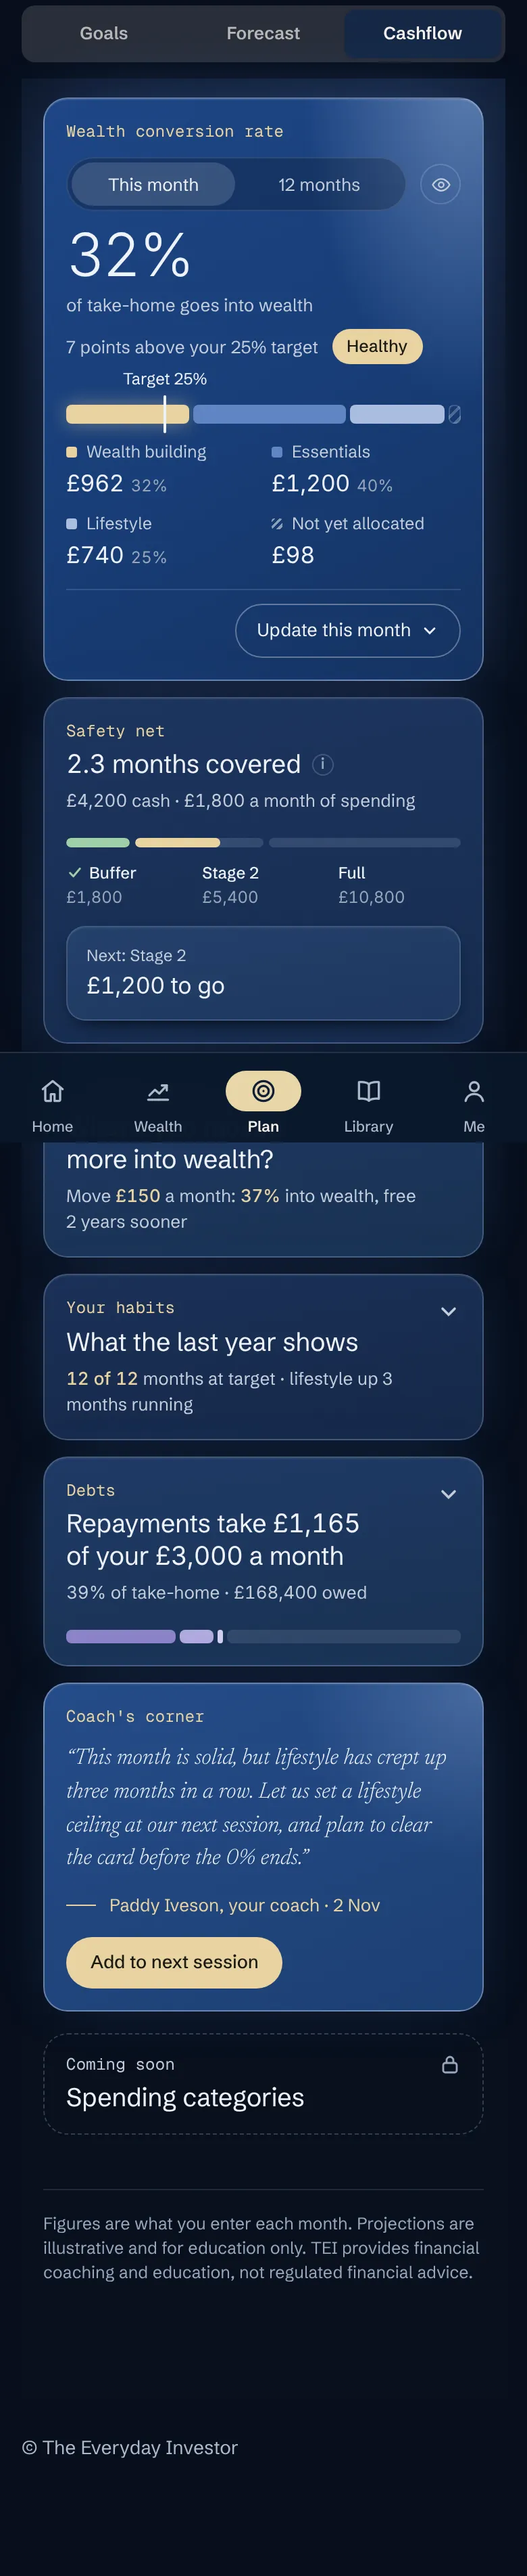
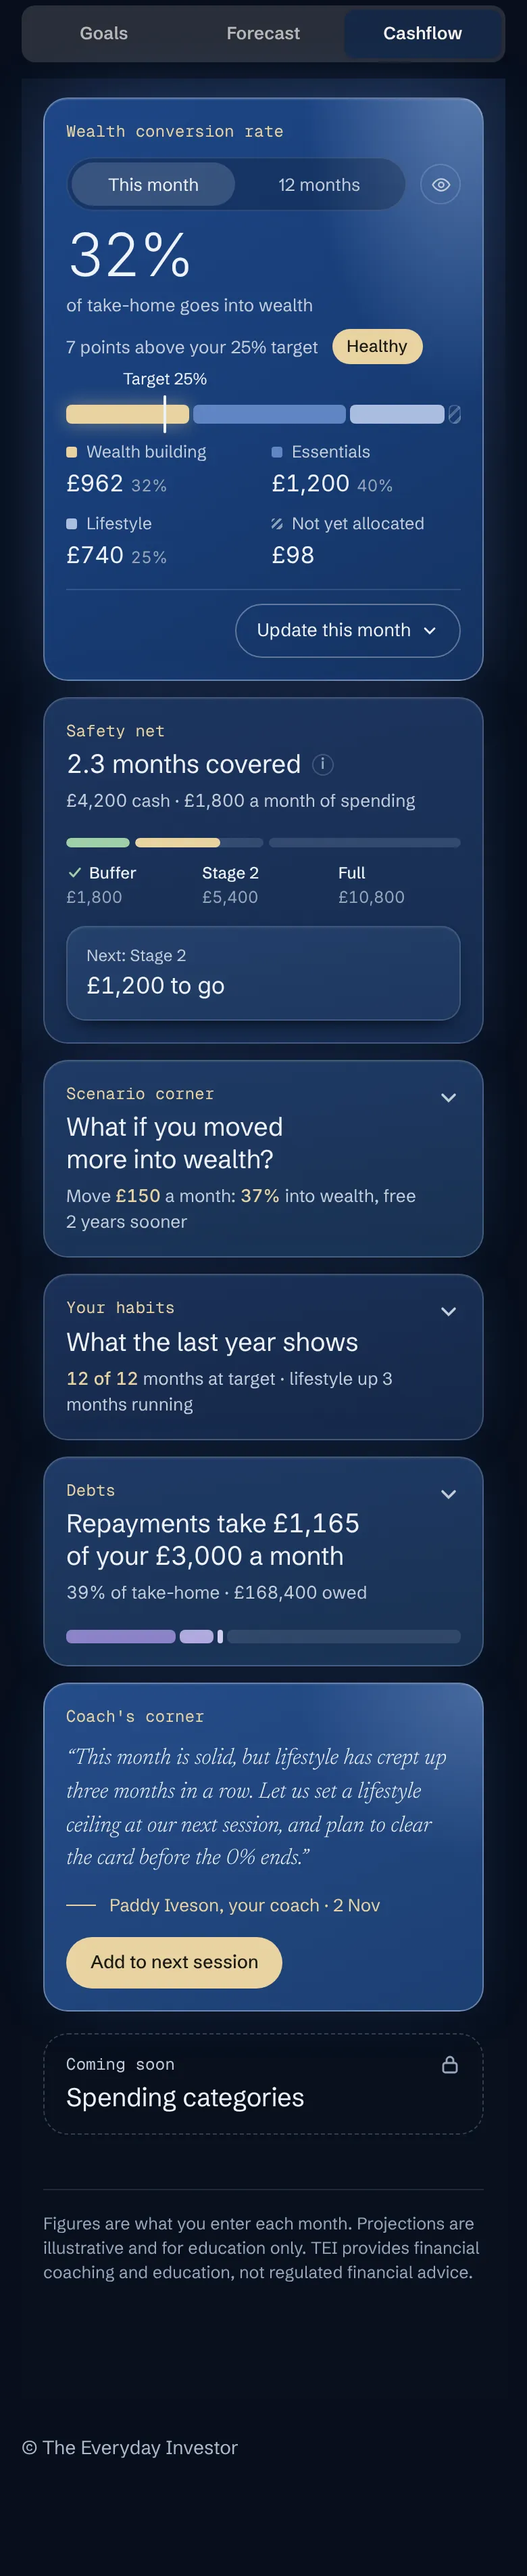
Homepage Wealth OS phone previews: remove baked-in bottom tab bar
The phone screenshots are full-page captures, so the app's fixed bottom
tab bar was baked in at the first-screen fold and scrolled past mid-page,
while the homepage frame also draws its own pinned bar. The capture script
now hides #clientApp .m-tabs, and the three phone shots are re-captured.

Claude-Session: https://claude.ai/code/session_015wx5T26mmH1RaQBDVXhEXR

Changed region(s): [[0.0615, 0.403, 0.9231, 0.4651]]

diff --git a/scripts/capture-home-previews.js b/scripts/capture-home-previews.js
@@ -26,7 +26,9 @@ const DEMO = fs.readFileSync(path.join(__dirname, 'wos-demo', 'demo-client.js'),
 const TYPES = {'.html':'text/html', '.js':'text/javascript', '.css':'text/css', '.json':'application/json', '.svg':'image/svg+xml', '.png':'image/png', '.webp':'image/webp', '.jpg':'image/jpeg'};
 const PAGES = [['progress', 'wealth'], ['planning', 'forecast'], ['cashflow', 'cashflow']];
 // The feedback button, toasts and the site footer are not part of the screens.
-const HIDE = '.feedback-fab,#toast,#disclaimerBar,.tei-boundary-footer,.tei-boundary,#sideSetupBtn{display:none!important}'
+// Nor is the phone's fixed bottom tab bar: a full-page capture bakes it in
+// mid-page, and the homepage frame draws its own pinned bar.
+const HIDE = '.feedback-fab,#toast,#disclaimerBar,.tei-boundary-footer,.tei-boundary,#sideSetupBtn,#clientApp .m-tabs{display:none!important}'
   // The fixed sidebar runs the full height of a full-page capture.
   + '.app-shell{position:relative}#clientApp .sidebar{position:absolute!important;height:auto!important;min-height:100%!important;bottom:0}';
 
